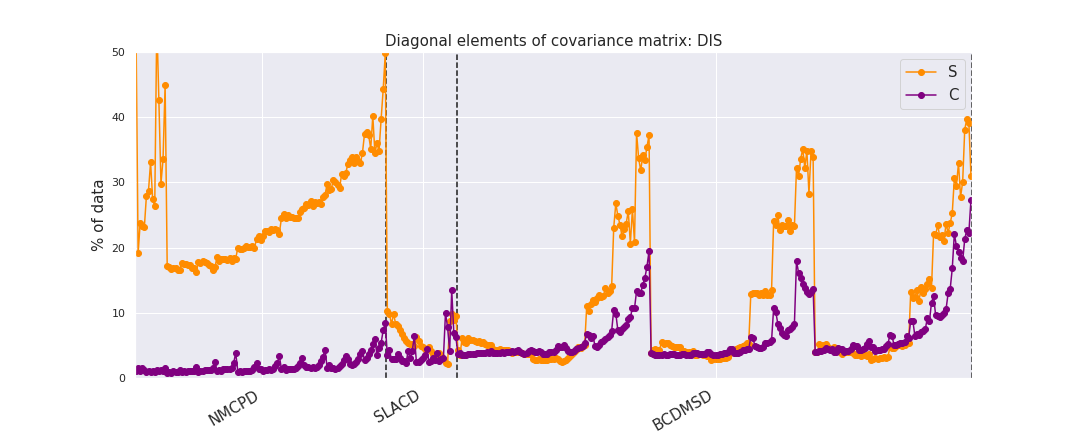
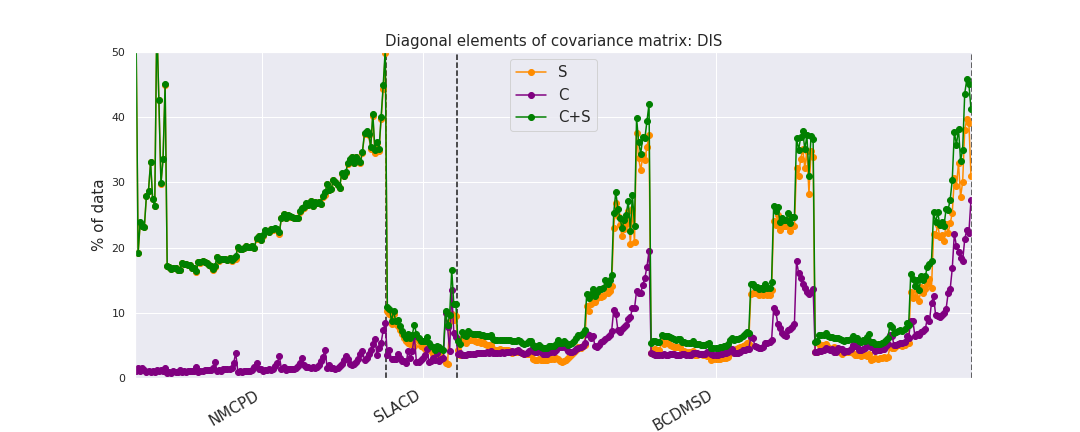
addinc C+S line

diff --git a/src/covmat/covmat.py b/src/covmat/covmat.py
@@ -79,6 +79,7 @@ def covmat_plots(label, fp1_table, fp2_table, fp1_covmat):
     normexpcovmat = expcovmat/np.outer(D.values, D.values)
     expsqrtdiags = np.sqrt(np.diag(normexpcovmat))
     totcovmat = covmat + expcovmat
+    totnormcovmat = totcovmat/np.outer(D.values, D.values)
 
     fig_th = corrmat_plot(covmat, fp1_table, "theory", label)
     fig_exp = corrmat_plot(expcovmat, fp1_table, "experiment", label)
@@ -86,9 +87,11 @@ def covmat_plots(label, fp1_table, fp2_table, fp1_covmat):
 
     # Diag element plot
     sqrtdiags = np.sqrt(np.diag(normcovmat))
+    totsqrtdiags = np.sqrt(np.diag(totnormcovmat))
     fig_diag, ax2 = plt.subplots(figsize=(15,6))
     ax2.plot(100*sqrtdiags, '-o', color="darkorange", label="S")
     ax2.plot(100*expsqrtdiags, '-o', color="purple", label="C")
+    ax2.plot(100*totsqrtdiags, '-o', color="green", label="C+S")
     ax2.set_ylabel("% of data", fontsize=15)
     ax2.set_title(f"Diagonal elements of covariance matrix: {label}",
                   fontsize=15)
